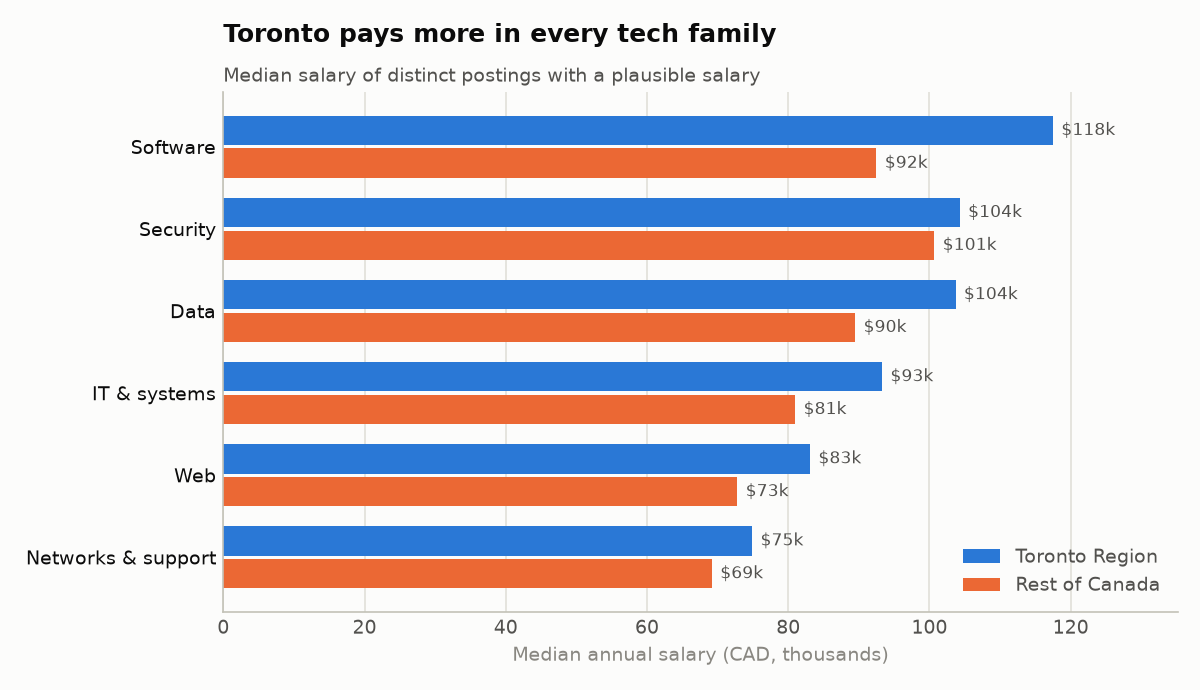
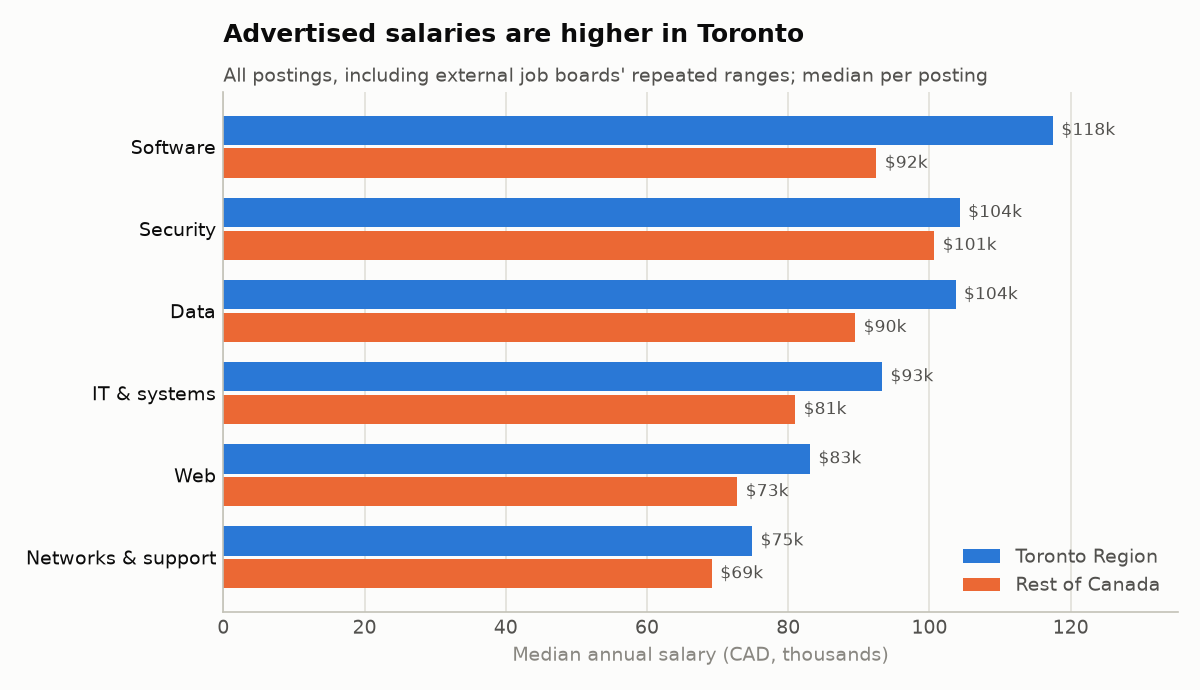
Regenerate the report with the experience, repeated-range and direct-posting tables

Changed region(s): [[0.185, 0.0913, 0.8325, 0.1217], [0.185, 0.0304, 0.6783, 0.0609]]

diff --git a/reports/summary.md b/reports/summary.md
@@ -1,6 +1,6 @@
 # Toronto Tech Job Market: SQL Analysis Report
 
-Generated on 2026-11-17 by `jobmarket report` from the queries in [`src/jobmarket/sql/analysis`](../src/jobmarket/sql/analysis). Salaries are in CAD.
+Generated on 2026-11-19 by `jobmarket report` from the queries in [`src/jobmarket/sql/analysis`](../src/jobmarket/sql/analysis). Salaries are in CAD.
 
 ## Overview
 
@@ -121,6 +121,45 @@ _Rows whose implied hourly rate falls outside $12 to $250 are flagged as implaus
 | Bi-weekly | 2,508 | 175 | 7.0% |
 | Week | 2,253 | 136 | 6.0% |
 | Day | 2,207 | 210 | 9.5% |
+
+## Salary by experience asked for, Toronto Region tech postings (CAD)
+
+_Only direct employer postings report experience, so this table covers them alone; their salaries are lower than those of external postings. Plausible salaries, one row per posting, percentiles rounded to the nearest $100._
+
+![Salary by experience asked for, Toronto Region tech postings (CAD)](figures/salary_by_experience.png)
+
+| Experience | Postings | P25 | Median | P75 |
+| --- | ---: | ---: | ---: | ---: |
+| None | 62 | 61,300 | 66,800 | 80,000 |
+| Under 7 months | 32 | 56,400 | 61,000 | 71,600 |
+| 7 to 12 months | 61 | 62,400 | 68,300 | 75,000 |
+| 1 to 2 years | 211 | 65,100 | 71,100 | 83,000 |
+| 2 to 3 years | 191 | 69,600 | 77,000 | 91,000 |
+| 3 to 5 years | 137 | 83,700 | 93,600 | 104,900 |
+| 5 years or more | 143 | 95,000 | 109,200 | 132,300 |
+
+## Repeated wide salary ranges in Toronto Region tech postings
+
+_A repeated wide range is a minimum and maximum that differ (for example $30.00 to $69.74 an hour) and appear in at least 20 distinct Toronto tech postings. In this data each one belongs to a single occupation, recurs across months and comes from external job boards, so they look like occupation-wide templates rather than individual offers. Round single values such as $50 an hour also repeat, but across many occupations, and are not counted here. Range midpoints drive the medians of external postings, which is why salaries are also shown for direct employer postings alone (next table)._
+
+| Source | Postings with salary | In repeated ranges | Repeated % |
+| --- | ---: | ---: | ---: |
+| Direct employer postings | 836 | 0 | 0.0% |
+| External job boards | 4,201 | 1,380 | 32.8% |
+| All | 5,037 | 1,380 | 27.4% |
+
+## Median annual salary by family, direct employer postings only (CAD)
+
+_The same comparison as the salary table above, restricted to postings that employers publish on Job Bank themselves, where repeated template ranges are rare. Samples are smaller, so read differences of a few thousand dollars with care. Plausible salaries, one row per posting and region, rounded to $100._
+
+| Family | Toronto postings | Toronto median | Rest postings | Rest of canada median |
+| --- | ---: | ---: | ---: | ---: |
+| Networks & support | 252 | 67,300 | 623 | 65,500 |
+| Software | 202 | 95,000 | 430 | 90,000 |
+| IT & systems | 166 | 88,100 | 339 | 82,500 |
+| Web | 95 | 65,500 | 279 | 68,300 |
+| Data | 93 | 90,000 | 167 | 80,000 |
+| Security | 29 | 100,400 | 64 | 97,300 |
 
 ---
 
